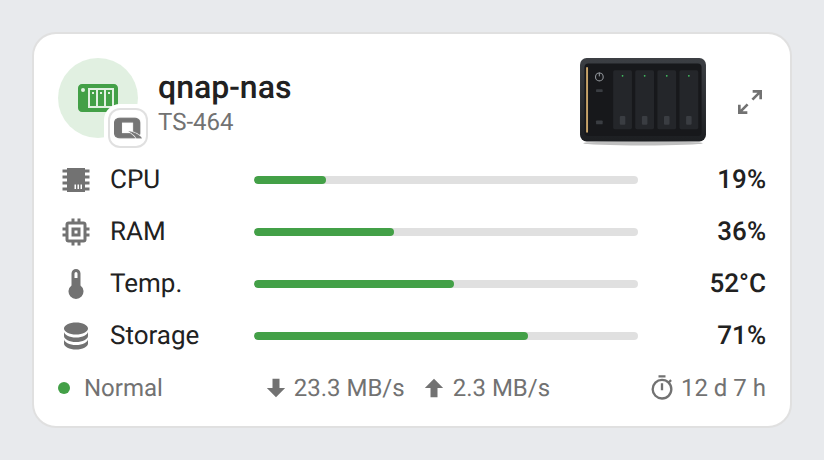
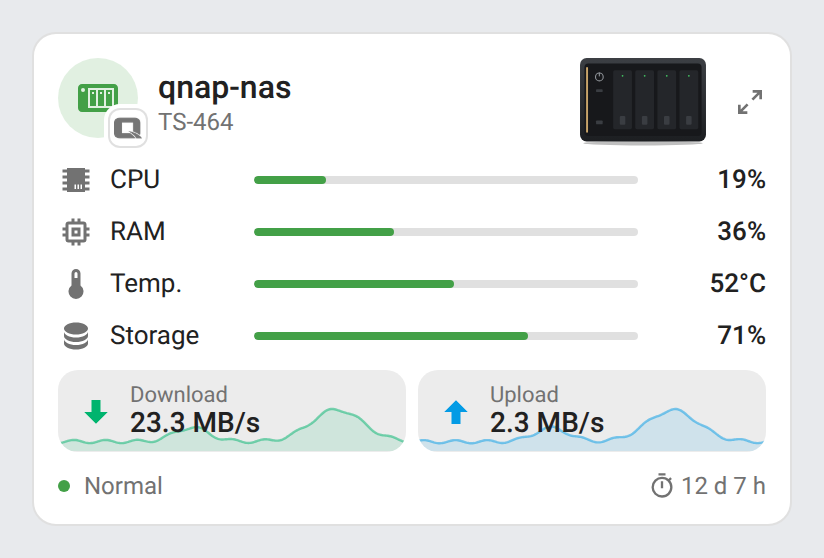
feat: 24 h curves on the folded mini card (1.16.0) (#61)
The folded mini card shows its rates as the full card's download /
upload tiles with their 24 h curves, above the footer. `show_history:
false` keeps the old footer text; one tile per line on a narrow card.

---
_Generated by [Claude
Code](https://claude.ai/code/session_01F4sAn1Ek4h88w9whpdhjW8)_

---------

diff --git a/src/nas-card.js b/src/nas-card.js
@@ -2180,18 +2180,6 @@ const FULL_STYLE = `
   .facts { display: flex; flex-wrap: wrap; gap: 4px 12px; font-size: 12px; margin-top: 6px; }
   .facts > span { display: inline-flex; align-items: center; gap: 4px; }
   .facts .icon { width: 14px; height: 14px; color: var(--secondary-text-color); }
-  .net { display: grid; grid-template-columns: repeat(2, 1fr); gap: 6px; }
-  .tile { display: flex; align-items: center; gap: 8px; padding: 6px 10px; border-radius: 10px;
-          background: var(--secondary-background-color, rgba(127,127,127,.08)); position: relative; overflow: hidden; }
-  .tile > :not(.spark) { position: relative; }
-  .tile .spark { position: absolute; left: 0; bottom: 0; width: 100%; height: 55%; pointer-events: none; }
-  .spark-a { fill: color-mix(in srgb, var(--c) 12%, transparent); }
-  .spark-l { fill: none; stroke: color-mix(in srgb, var(--c) 50%, transparent); stroke-width: 1.2; vector-effect: non-scaling-stroke; }
-  .tile .icon { color: var(--c, var(--nas-accent)); }
-  .tile .k { font-size: 11px; color: var(--secondary-text-color); }
-  .tile .v { font-size: 14px; font-weight: 500; }
-  .tile.up { --c: var(--info-color, #039be5); }
-  .tile.down { --c: var(--nas-accent); }
   .vol { margin-bottom: 8px; display: grid; grid-template-columns: minmax(0, 1fr) auto; column-gap: 8px; align-items: center; }
   .vol .row { grid-column: 1; grid-row: 1; }
   .vol:last-child { margin-bottom: 0; }
@@ -2253,7 +2241,7 @@ class NasCard extends NasBase {
     if (c.show_volumes !== false) parts.push(this._volumes(nas));
     if (c.show_disks !== false) parts.push(this._disks(nas));
     if (c.show_fans !== false) parts.push(this._fans(nas));
-    return `<style>${BASE_STYLE}${FULL_STYLE}</style>
+    return `<style>${BASE_STYLE}${FULL_STYLE}${NET_STYLE}</style>
       <ha-card>
         ${this._header(nas)}
         <div class="content">${parts.filter(Boolean).join("")}</div>
@@ -2312,18 +2300,23 @@ class NasCard extends NasBase {
     const sc = nas.scalars;
     if (!sc.lan_down && !sc.lan_up) return "";
     // A tile without its sensor (e.g. QNAP without upload rate) opens no more-info: not focusable.
+    return `<div>
+      <div class="section-title">${svgIcon(ICONS.network)}${this._t("network")}</div>
+      ${this._netTiles(sc)}
+    </div>`;
+  }
+
+  // The download and upload tiles, each with its last 24 hours behind the rate (unless show_history is false).
+  _netTiles(sc) {
     const hist = this._config.show_history === false ? null : this._history([sc.lan_down, sc.lan_up].filter(Boolean));
     const tile = (id, cls, icon, k) =>
       `<div class="tile ${id ? `clickable ${cls}" role="button" tabindex="0" data-entity="${id}"` : `${cls}"`}>${spark(hist?.[id])}${svgIcon(icon)}<div><div class="k">${k}</div><div class="v">${fmtRate(
         toBps(this._s(id))
       )}</div></div></div>`;
-    return `<div>
-      <div class="section-title">${svgIcon(ICONS.network)}${this._t("network")}</div>
-      <div class="net">
+    return `<div class="net">
         ${tile(sc.lan_down, "down", ICONS.down, this._t("download"))}
         ${tile(sc.lan_up, "up", ICONS.up, this._t("upload"))}
-      </div>
-    </div>`;
+      </div>`;
   }
 
   // 24 h of 5-minute means from the recorder's statistics, fetched again every 5 minutes. Returns what is
@@ -2433,6 +2426,24 @@ class NasCard extends NasBase {
 // ---------------------------------------------------------------------------
 // Mini card
 // ---------------------------------------------------------------------------
+
+// Download / upload tiles with their 24 h curve: the network section of the full card, the rates row of the mini card.
+const NET_STYLE = `
+  .net { display: grid; grid-template-columns: repeat(2, 1fr); gap: 6px; }
+  .tile { display: flex; align-items: center; gap: 8px; padding: 6px 10px; border-radius: 10px;
+          background: var(--secondary-background-color, rgba(127,127,127,.08)); position: relative; overflow: hidden; }
+  .tile > :not(.spark) { position: relative; }
+  .tile .spark { position: absolute; left: 0; bottom: 0; width: 100%; height: 55%; pointer-events: none; }
+  .spark-a { fill: color-mix(in srgb, var(--c) 12%, transparent); }
+  .spark-l { fill: none; stroke: color-mix(in srgb, var(--c) 50%, transparent); stroke-width: 1.2; vector-effect: non-scaling-stroke; }
+  .tile .icon { color: var(--c, var(--nas-accent)); }
+  .tile .k { font-size: 11px; color: var(--secondary-text-color); }
+  .tile .v { font-size: 14px; font-weight: 500; }
+  .tile.up { --c: var(--info-color, #039be5); }
+  .tile.down { --c: var(--nas-accent); }
+  /* A narrow card (a mini card on 6 columns of a phone): one tile per line, so that each rate keeps its whole text. */
+  @container (max-width: 260px) { .net { grid-template-columns: minmax(0, 1fr); } }
+`;
 
 const MINI_STYLE = `
   .nas { height: 44px; width: auto; flex: none; max-width: 35%; object-fit: contain; }
@@ -2576,7 +2587,9 @@ class NasMiniCard extends NasCard {
         `<span class="clickable ${this._statusClass(nas, status)}" role="button" tabindex="0" data-key="status" data-entity="${status.entity_id}" title="${text}" aria-label="${text}"><span class="dot"></span>&nbsp;<span class="txt">${text}</span></span>`
       );
     }
-    if (c.show_network !== false && (sc.lan_down || sc.lan_up))
+    // With their 24 h curves, the rates get the full card's tiles above the footer; without, they stay in the footer.
+    const netTiles = c.show_network !== false && c.show_history !== false && (sc.lan_down || sc.lan_up);
+    if (c.show_network !== false && !netTiles && (sc.lan_down || sc.lan_up))
       // Each rate stays on one line; on a very narrow card, the upload rate goes under the download rate.
       foot.push(
         `<span class="clickable" role="button" tabindex="0" data-key="network" data-entity="${sc.lan_down || sc.lan_up}"><span class="rate">${svgIcon(ICONS.down)}${fmtRate(toBps(this._s(sc.lan_down)))}</span><span class="rate">${svgIcon(
@@ -2585,11 +2598,12 @@ class NasMiniCard extends NasCard {
       );
     const runtime = num(this._s(sc.runtime)) ?? bootAge(this._s(sc.boot));
     if (runtime !== null) foot.push(`<span data-key="uptime">${svgIcon(ICONS.timer)}${fmtUptime(runtime, this._hass, this._config)}</span>`);
-    return `<style>${BASE_STYLE}${MINI_STYLE}</style>
+    return `<style>${BASE_STYLE}${MINI_STYLE}${NET_STYLE}</style>
       <ha-card>
         ${this._header(nas)}
         <div class="content">
           <div class="metrics">${rows.join("")}</div>
+          ${netTiles ? this._netTiles(sc) : ""}
           ${foot.length ? `<div class="foot">${foot.join("")}</div>` : ""}
         </div>
       </ha-card>`;
@@ -2724,7 +2738,7 @@ class NasCardEditor extends NasEditorBase {
 
 class NasMiniCardEditor extends NasEditorBase {
   static get toggles() {
-    return ["show_storage", "show_network", "zoom"];
+    return ["show_storage", "show_network", "show_history", "zoom"];
   }
 }
 

diff --git a/README.md b/README.md
@@ -30,7 +30,7 @@ The cards are built on top of the [UGREEN NAS integration](https://github.com/To
 - Two cards: a full **NAS Card** and a compact **NAS Mini Card**, of type `custom:nas-card` and `custom:nas-mini-card` (the former types `custom:ugreen-nas-card` and `custom:ugreen-nas-mini-card` keep working)
 - Three integrations: **UGREEN NAS**, **Synology DSM** and **QNAP** — automatic discovery, several NAS supported, brands can be mixed
 - CPU, RAM and temperature gauges, uptime and CPU model
-- Network download / upload rates, with their last 24 hours drawn behind each tile (recorder statistics)
+- Network download / upload rates, with their last 24 hours drawn behind each tile, on the full card and the mini card (recorder statistics)
 - Volumes with RAID level, filesystem, status and used space
 - Disks with model, status, temperature, size and power-on hours
 - Fans speed (CPU fan and case fans, UGREEN)
@@ -149,7 +149,7 @@ language: fr
 | `brand_url` | both | Brand website | Website opened by a click on the header icon: [nas.ugreen.com](https://nas.ugreen.com), [synology.com](https://www.synology.com) or [qnap.com](https://www.qnap.com) by default |
 | `show_system` | full | `true` | CPU, RAM and temperature gauges, uptime, CPU model |
 | `show_network` | both | `true` | Network download / upload |
-| `show_history` | full | `true` | 24 h curve behind the download / upload tiles, from the recorder's 5-minute statistics (needs rate sensors with a `state_class`, the case for the three integrations) |
+| `show_history` | both | `true` | 24 h curve behind the download / upload tiles (on the mini card, the rates then show as tiles above the footer instead of in it), from the recorder's 5-minute statistics (needs rate sensors with a `state_class`, the case for the three integrations) |
 | `show_volumes` | full | `true` | Volumes and used space |
 | `show_disks` | full | `true` | Disks details |
 | `show_fans` | full | `true` | Fans speed |

diff --git a/CHANGELOG.md b/CHANGELOG.md
@@ -1,5 +1,10 @@
 # Changelog
 
+## 1.16.0 - 2026-11-07
+
+### Features
+- Mini card: the folded rates show as the full card's download / upload tiles with their last 24 hours, above the footer (`show_history`, now also in the mini card editor; `show_history: false` keeps the rates in the footer). On a narrow card the tiles go one per line.
+
 ## 1.15.0 - 2026-11-07
 
 ### Features
